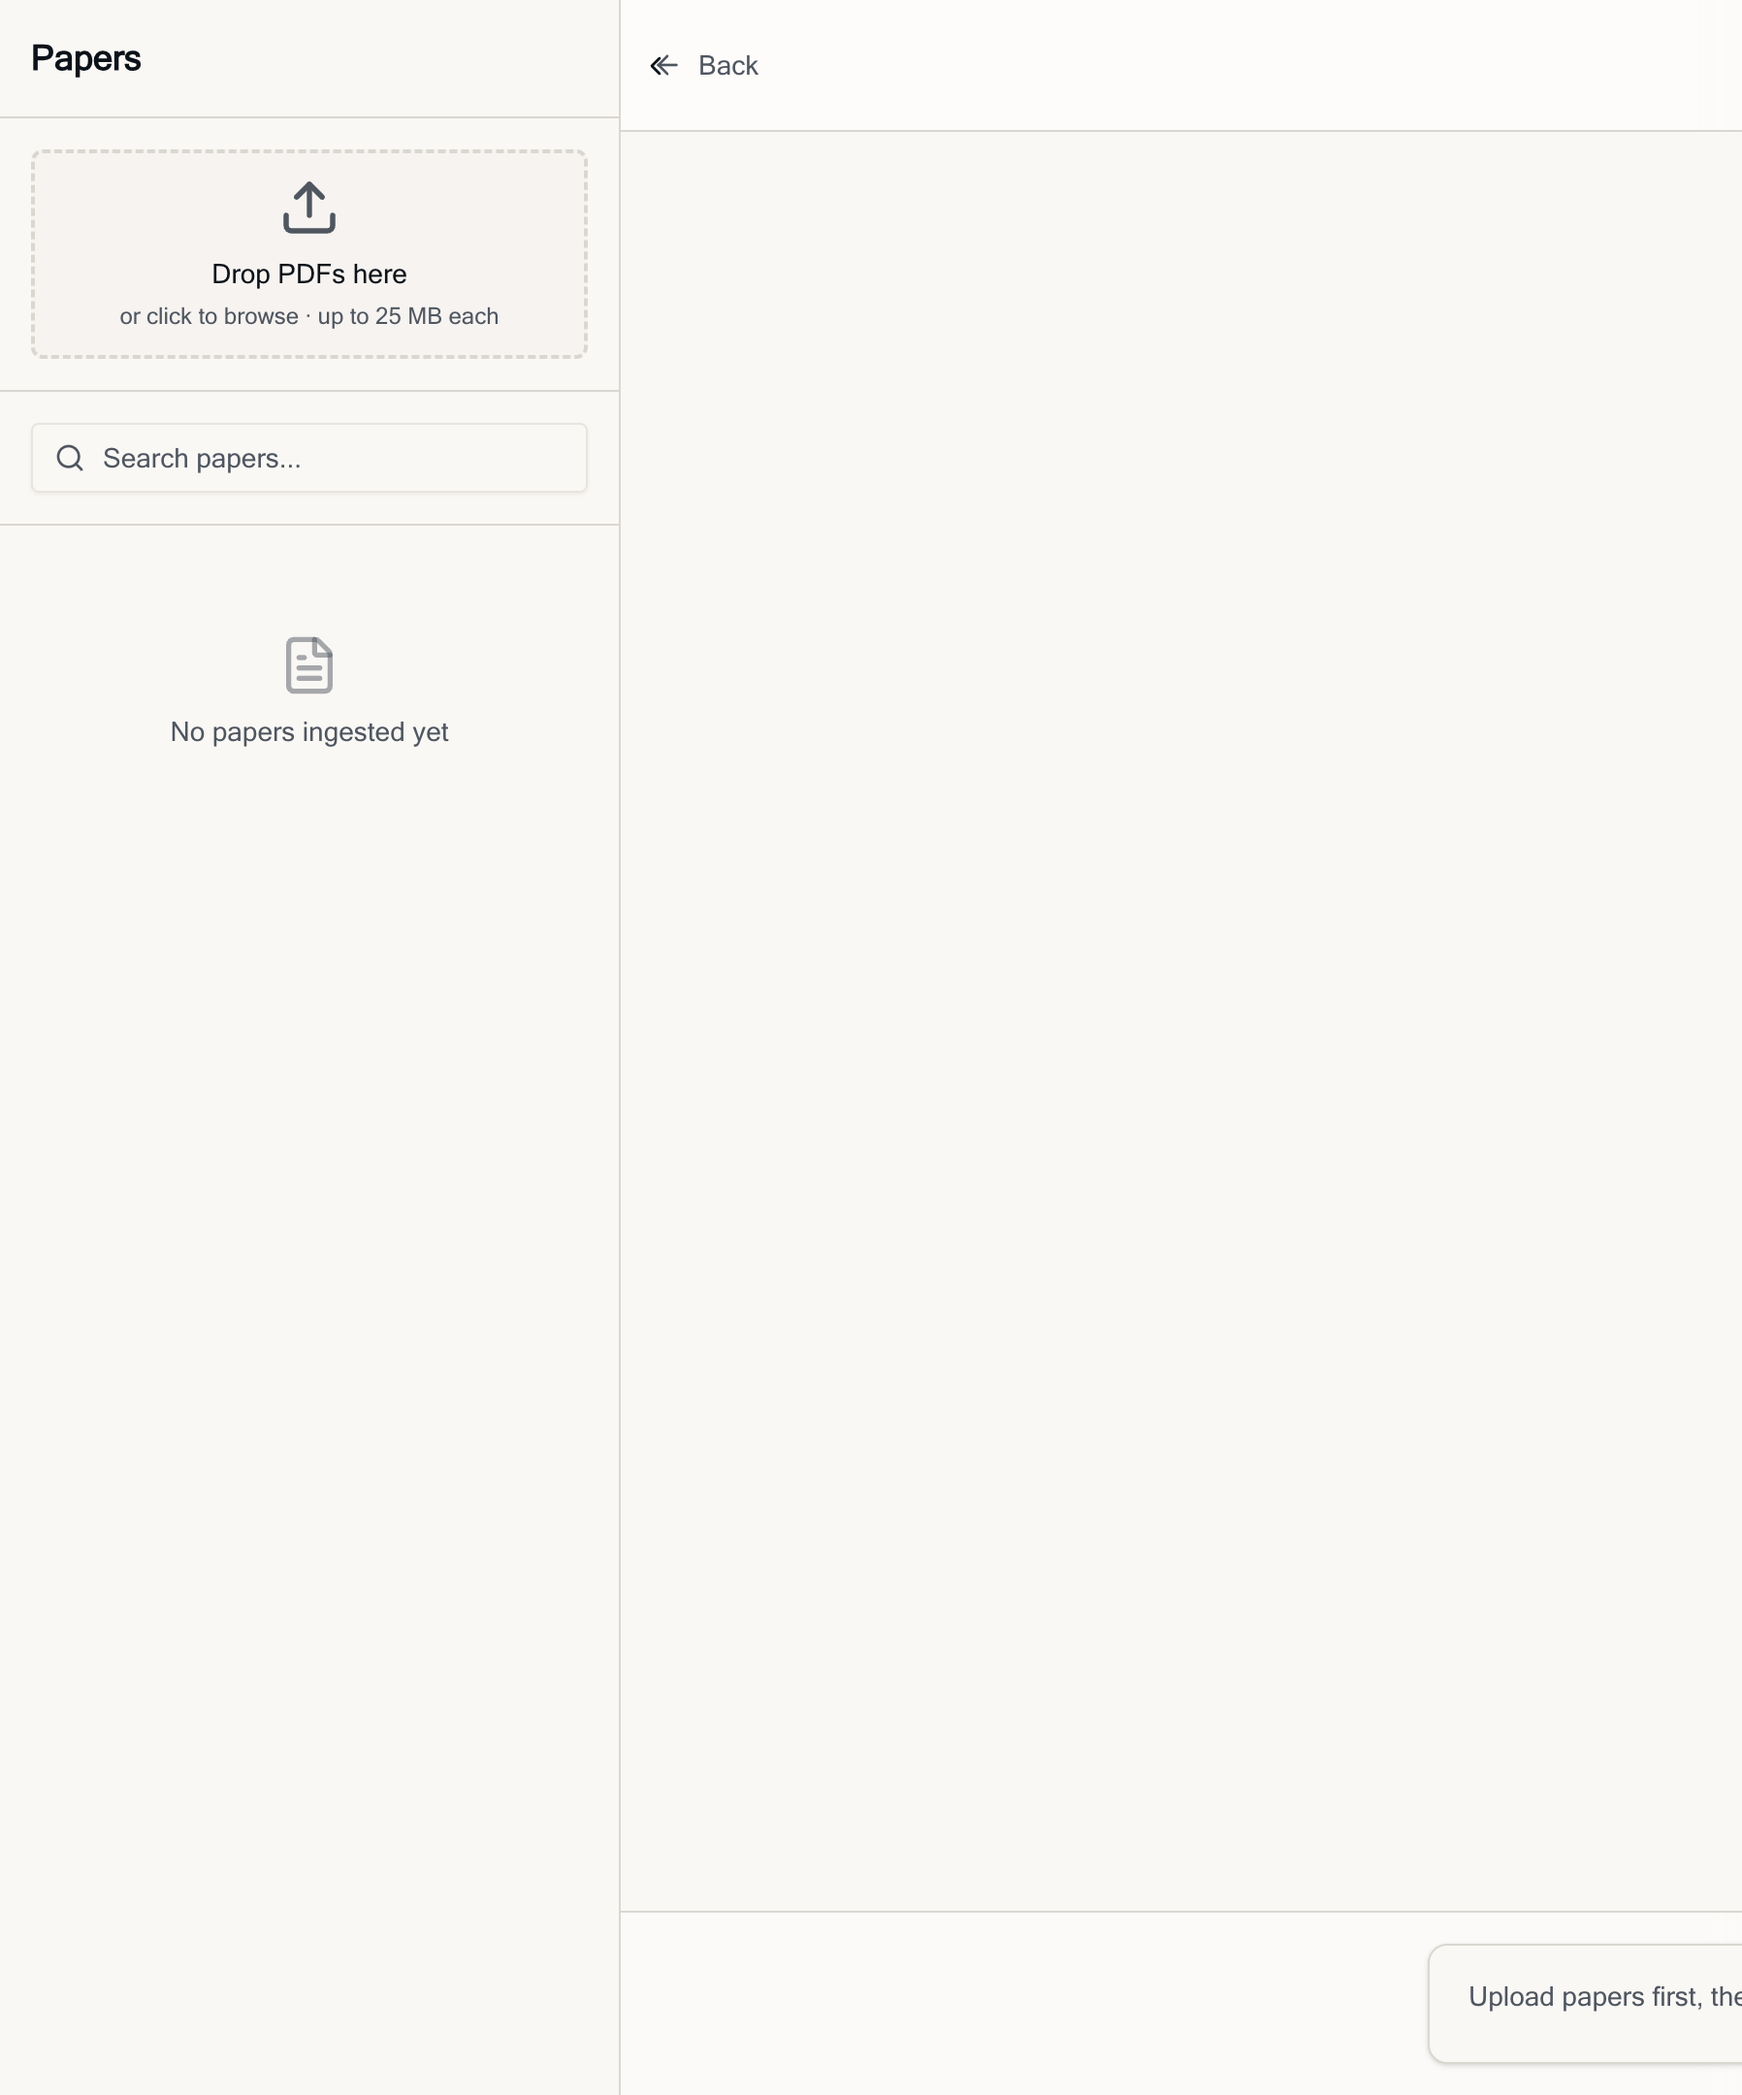
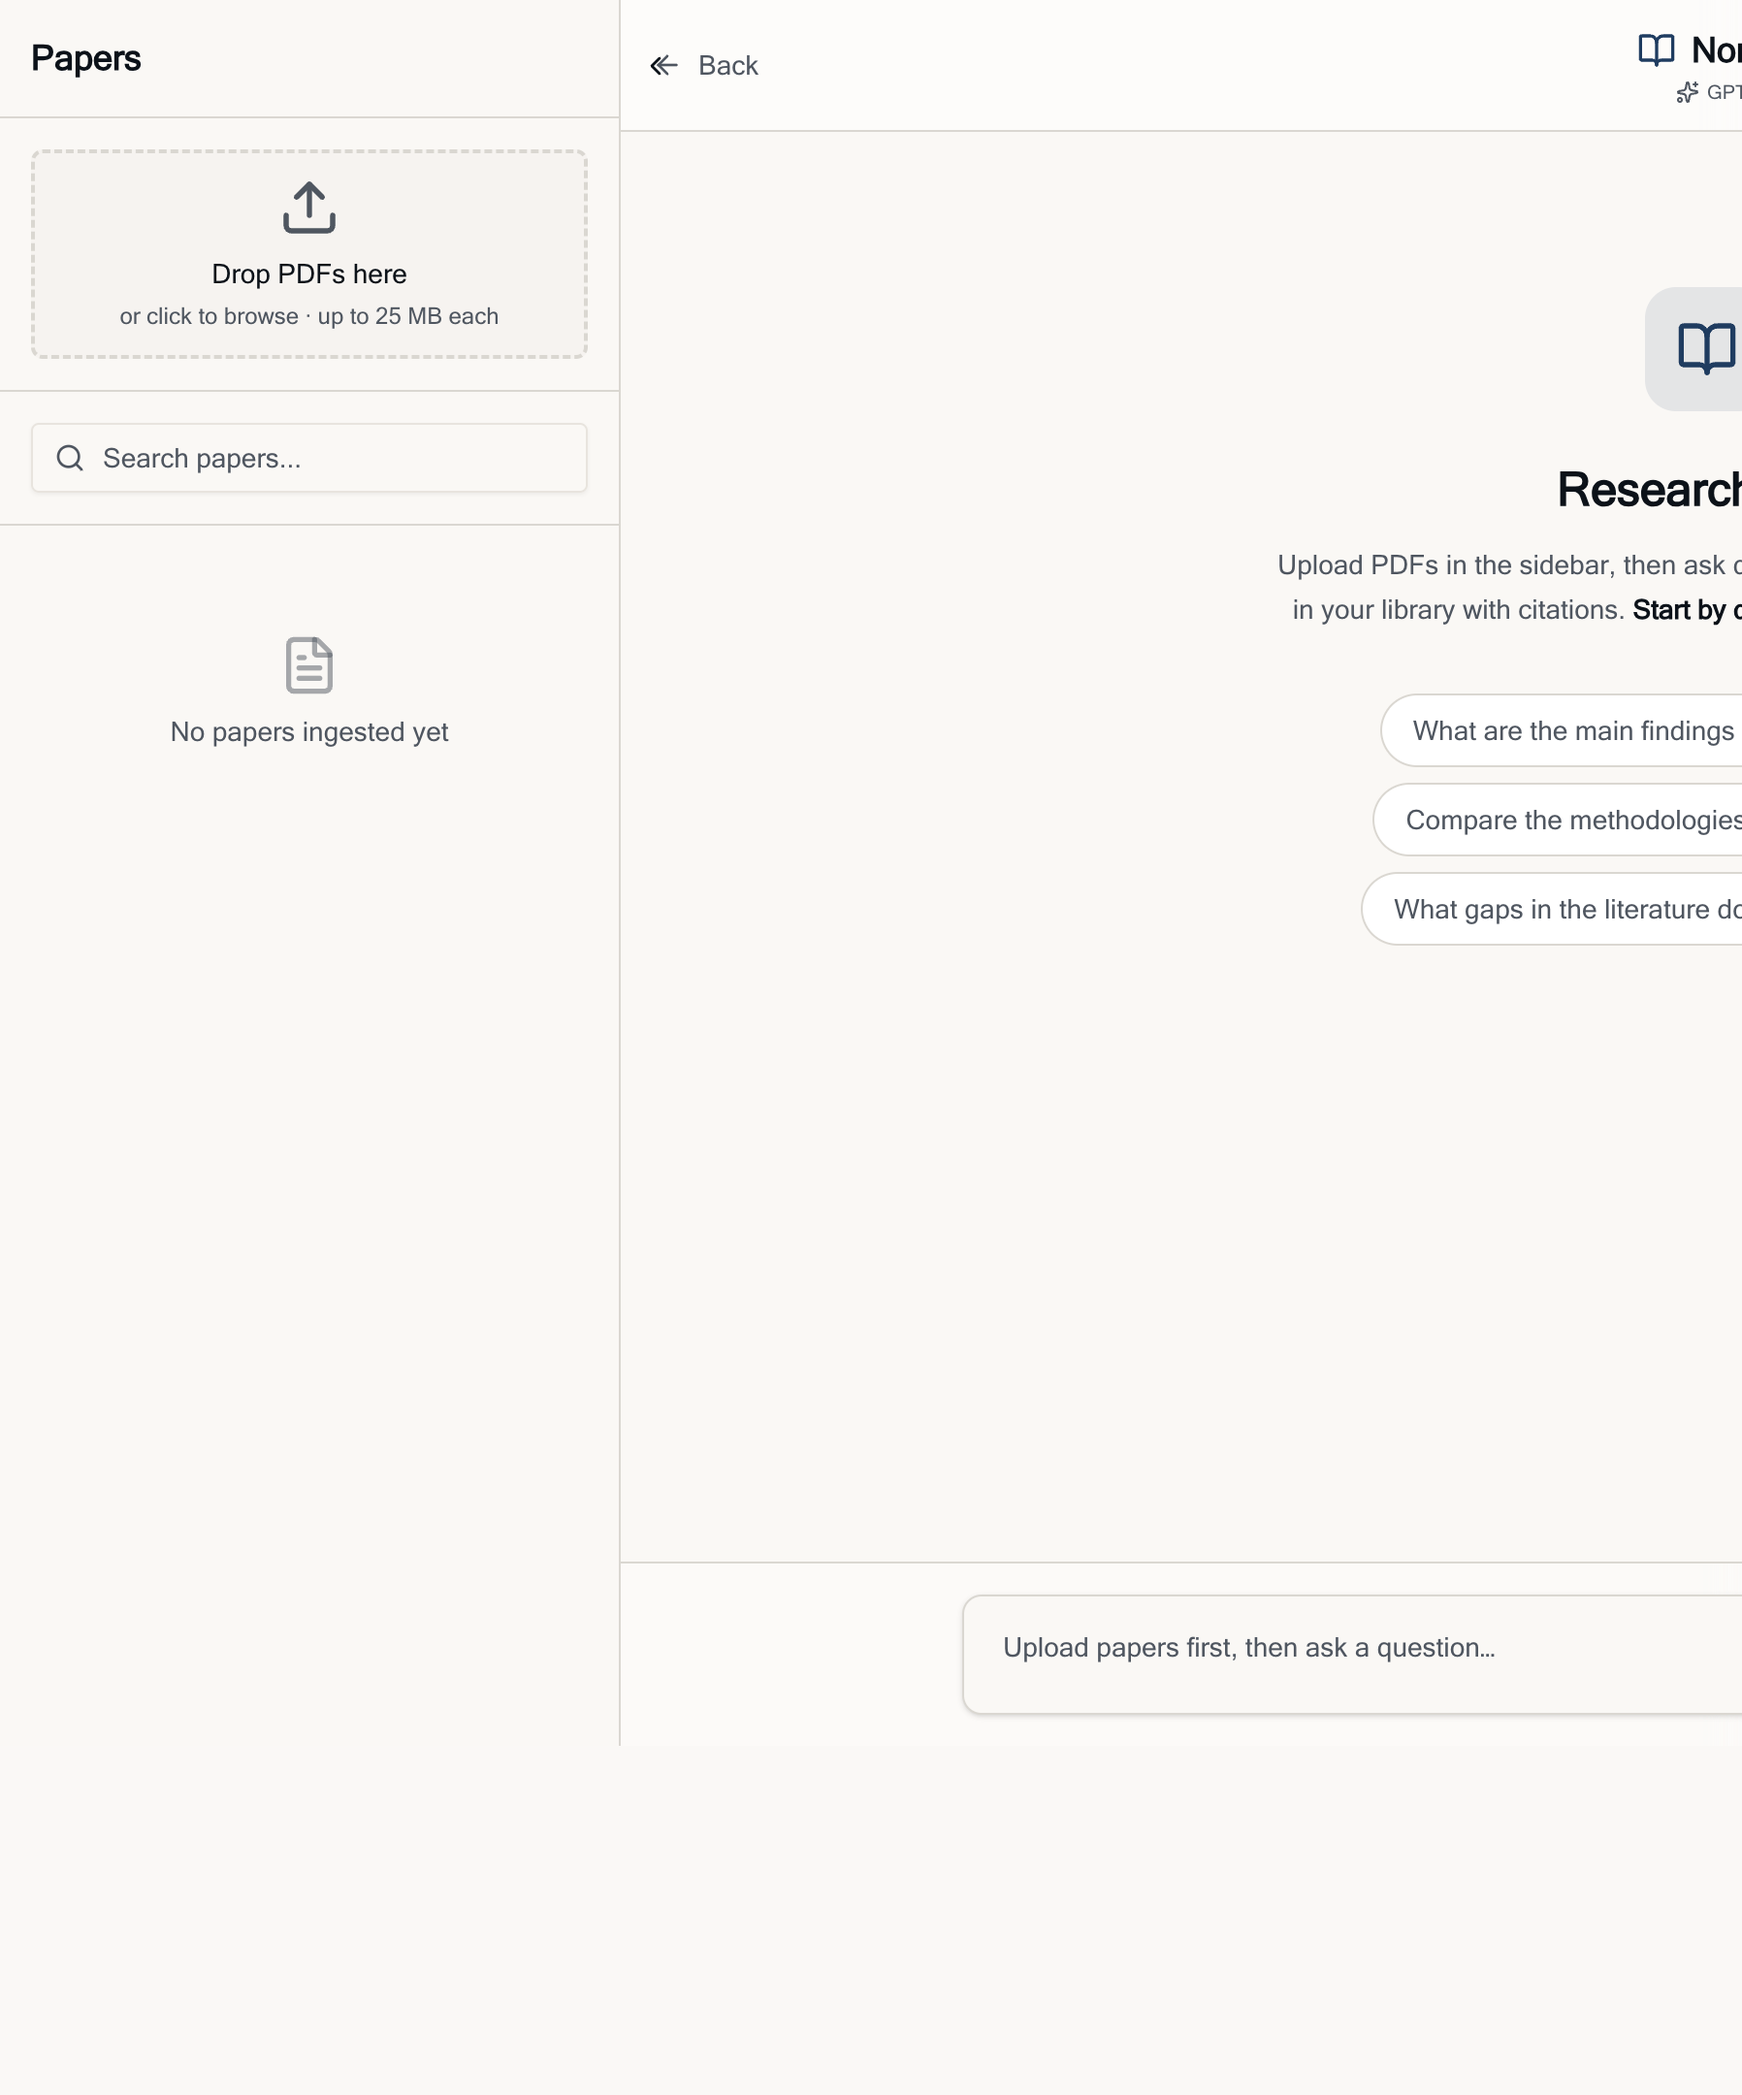
Fix README screenshots with proper desktop captures.

diff --git a/README.md b/README.md
@@ -22,10 +22,6 @@
   <img src="https://img.shields.io/badge/Claude-Opus_4.7-D97706" alt="Claude" />
 </p>
 
-<p align="center">
-  <img src="docs/images/app-landing.png" alt="NormLit landing page" width="900" />
-</p>
-
 ---
 
 ## The problem
@@ -81,7 +77,7 @@ NormLit uses **RAG and vector embeddings** to ground every answer in your upload
 </table>
 
 <p align="center">
-  <img src="docs/images/app-chat.png" alt="NormLit chat interface with paper upload sidebar" width="700" />
+  <img src="docs/images/app-chat.png" alt="NormLit chat interface with paper upload sidebar" width="100%" />
 </p>
 
 ---
@@ -91,7 +87,7 @@ NormLit uses **RAG and vector embeddings** to ground every answer in your upload
 NormLit also ships with a **complete EEG Study Guide**, a step-by-step BioSemi ActiveTwo protocol born from that same 100-page instruction packet. From participant prep to cap setup, gel application, recording, and cleanup.
 
 <p align="center">
-  <img src="docs/images/app-eeg-guide.png" alt="NormLit EEG Study Guide, BioSemi ActiveTwo protocol" width="700" />
+  <img src="docs/images/app-eeg-guide.png" alt="NormLit EEG Study Guide, BioSemi ActiveTwo protocol" width="100%" />
 </p>
 
 <p align="center">
